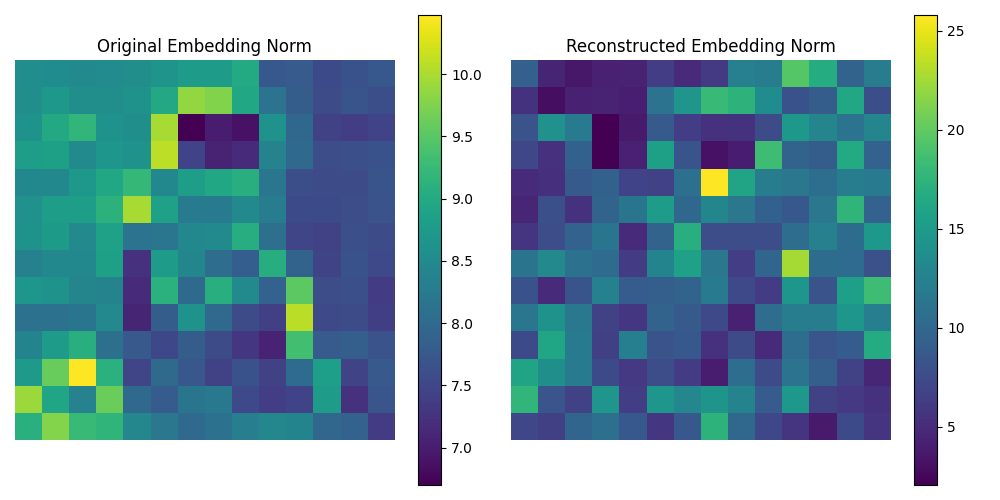
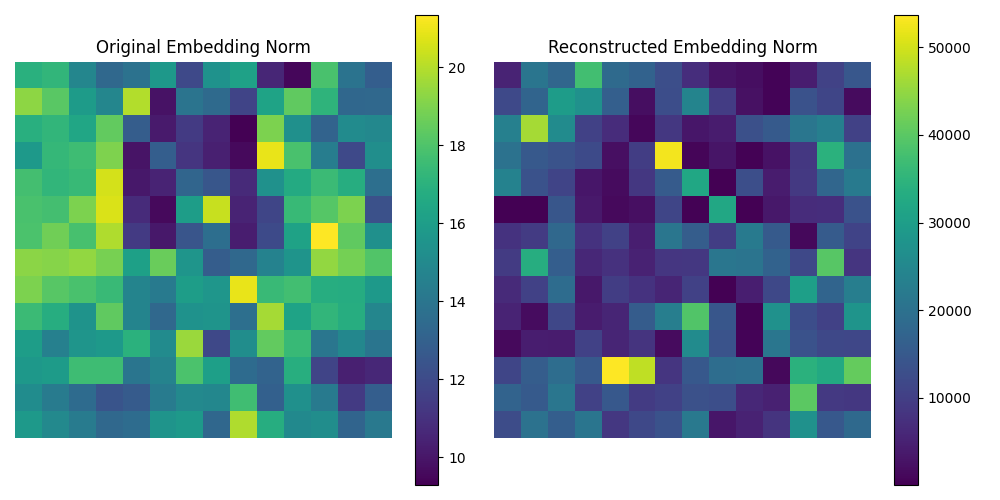
changes

diff --git a/main.py b/main.py
@@ -3,6 +3,7 @@ import numpy as np
 import config
 from dataloaders import get_dataloader
 from models.model import get_model, April
+from models.custom_vit import get_custom_vit
 import torch.nn as nn
 import matplotlib
 matplotlib.use('Agg')
@@ -30,9 +31,9 @@ def april(w, dldw, dldz):
     print(f"dldv range: min={dldv.min():.4f}, max={dldv.max():.4f}")
     if dldz is not None:
         print(f"dldz range: min={dldz.min().item():.4f}, max={dldz.max().item():.4f}")
-    A = q_weights.T @ dldq
-    B = k_weights.T @ dldk
-    C = v_weights.T @ dldv
+    A = dldq @ q_weights.T
+    B = dldk @ k_weights.T
+    C = dldv @ v_weights.T
     print(f"shape of A: {A.shape}, range: min={A.min():.4f}, max={A.max():.4f}")
     print(f"shape of B: {B.shape}, range: min={B.min():.4f}, max={B.max():.4f}")
     print(f"shape of C: {C.shape}, range: min={C.min():.4f}, max={C.max():.4f}")
@@ -67,9 +68,15 @@ if __name__ == '__main__':
     dataloader = get_dataloader(config.DEFAULT_DATASET, root='./data')
 
     # 2. Create the model
-    vit_model = get_model(config.DEFAULT_MODEL, 
-                          pretrained= True, 
-                          num_classes=config.DEFAULT_NUM_CLASSES)
+    if config.USE_CUSTOM_VIT:
+        vit_model = get_custom_vit(config.DEFAULT_MODEL,
+                                 pretrained=True,
+                                 num_classes=config.DEFAULT_NUM_CLASSES,
+                                 use_layernorm=False, use_residual=False)
+    else:
+        vit_model = get_model(config.DEFAULT_MODEL,
+                              pretrained=True,
+                              num_classes=config.DEFAULT_NUM_CLASSES)
     model = April(vit_model)
     model.to(config.DEFAULT_DEVICE)
 
@@ -109,24 +116,34 @@ if __name__ == '__main__':
 
     # We need to get the derivative of the loss with respect to the input embedding z.
     # We use torch.autograd.grad to explicitly compute this gradient.
+    print(f"outputs shape: {outputs.shape}, dtype: {outputs.dtype}")
+    print(f"labels shape: {labels.shape}, dtype: {labels.dtype}")
     loss = criterion(outputs, labels)
 
     # Get the gradient of the loss w.r.t. ln_input_embedding
     # BUT IS THIS POSSIBLE FOR THE SERVER? IN THAT CASE HOOKING BECOMES A CASE OF MODEL POISONING?
     # CAN IT BE OBTAINEDUSING SOME ANALYTICAL METHOD? OR IS IT JUST ASSUMED THAT THE SERVER HAS ACCESS TO IT?
     input_embedding_grad = None
-    if ln_input_embedding is not None:
-        input_embedding_grad = torch.autograd.grad(loss, ln_input_embedding, retain_graph=True)[0]
-        print(f"Shape of input_embedding_grad: {input_embedding_grad.shape}")
-        print(f"Range of input_embedding_grad: min={input_embedding_grad.min().item():.4f}, max={input_embedding_grad.max().item():.4f}")
+    # if ln_input_embedding is not None:
+    #     input_embedding_grad = torch.autograd.grad(loss, model.model.pos_embed, retain_graph=True)[0]
+    #     print(f"Shape of input_embedding_grad: {input_embedding_grad.shape}")
+    #     print(f"Range of input_embedding_grad: min={input_embedding_grad.min().item():.4f}, max={input_embedding_grad.max().item():.4f}")
+        # dldq_, dldk_, dldv_ = model.get_attention_gradients(0)
+        # print('dldq stats:', dldq_.min().item(), dldq_.max().item())
 
+    optimizer.zero_grad()
     loss.backward()
-    optimizer.step()
+    # optimizer.step()
+    input_embedding_grad = model.model.pos_embed.grad.data.clone()
+    print(f"Shape of input_embedding_grad: {input_embedding_grad.shape}")
+    print(f"Range of input_embedding_grad: min={input_embedding_grad.min().item():.4f}, max={input_embedding_grad.max().item():.4f}")
+    # print(f"L2 difference: {torch.linalg.norm(input_embedding_grad - model.model.pos_embed.grad.data, dim=-1)}")
 
     # 5. Get the weights and gradients for a specific block (e.g., block 0)
     block_index = 0
     q_weights, k_weights, v_weights = model.get_attention_weights(block_index) # The server has access to these
     dldq, dldk, dldv = model.get_attention_gradients(block_index) # The server has access to these
+    # print(f"L2 Difference: {torch.linalg.norm(dldq - dldq_, 2)}")
 
     w = {'q': q_weights, 'k': k_weights, 'v': v_weights}
     dldw = {'q': dldq, 'k': dldk, 'v': dldv}
@@ -185,37 +202,8 @@ if __name__ == '__main__':
     plt.savefig('embedding_visualization.png')
     print("Saved embedding visualization to embedding_visualization.png")
 
-
-
     # 8. Reconstruct image from intermediate embedding
     print("\n--- Image Patch Reconstruction ---")
-    
-    # The user requested to invert the LayerNorm using its weights and biases,
-    # and the mean and standard deviation from the input images.
-    
-    # Step 1: Invert the LayerNorm
-    norm_layer = model.model.blocks[0].norm1
-    gamma = norm_layer.weight
-    beta = norm_layer.bias
-
-    # Assuming z_reconstructed is the output of the LayerNorm
-    y = z_reconstructed.to(config.DEFAULT_DEVICE)
-
-    # Using mean and std from input images, as requested.
-    # Note: LayerNorm's statistics are typically calculated per-token on the embedding dimension.
-    # Using global image statistics is not standard and may lead to unexpected results.
-    img_mean = images.mean(dim = (1,2,3)).view(-1,1,1)
-    img_std = images.std(dim = (1,2,3)).view(-1,1,1)
-    
-    # Invert the LayerNorm equation: x = ((y - beta) / gamma) * std + mean
-    print(f"Range of 'y'(=z_recons..)(b4 inversion): min={y.min().item():.4f}, max={y.max().item():.4f}")
-    print(f"Range of original 'y'(=ln_output_emb..): min={ln_output_embedding.min().item():.4f}, max={ln_output_embedding.max().item():.4f}")
-    ln_input_embedding_ = ((y - beta) / gamma) * img_std + img_mean
-    print(f"Range of 'ln_input_emb..'(after inver.): min={ln_input_embedding_.min().item():.4f}, max={ln_input_embedding_.max().item():.4f}")
-    print(f"Range of original 'ln_input_embedding': min={ln_input_embedding.min().item():.4f}, max={ln_input_embedding.max().item():.4f}")
-    print(f"Shape of inverted ln_input_embedding: {ln_input_embedding_.shape}")
-    ln_input_recon_error = torch.norm(ln_input_embedding - ln_input_embedding_).item()
-    print(f"LayerNorm inversion error: {ln_input_recon_error}")
 
     # Step 2: Subtract the positional embedding to get the patch information.
     # The input to the first transformer block is P' = [x_class; x_p^1; ...; x_p^N] + E_pos
@@ -224,7 +212,7 @@ if __name__ == '__main__':
     pos_embed = model.model.pos_embed
     print(f"Shape of positional embedding: {pos_embed.shape}")
     print(f"Range of positional embedding: min={pos_embed.min().item():.4f}, max={pos_embed.max().item():.4f}")
-    z_patch_with_cls = ln_input_embedding_ - pos_embed
+    z_patch_with_cls = ln_input_embedding - pos_embed
     
     # Remove the class token
     z_patch = z_patch_with_cls[:, 1:, :]

diff --git a/models/custom_vit.py b/models/custom_vit.py
@@ -1,0 +1,117 @@
+import torch
+import torch.nn as nn
+from timm.models.vision_transformer import Block as TimmBlock
+from timm.models.vision_transformer import VisionTransformer as TimmVisionTransformer
+from timm.layers import PatchEmbed
+from .vit_config import VIT_CONFIGS
+
+class CustomBlock(TimmBlock):
+    def __init__(self, dim, num_heads, mlp_ratio=4., qkv_bias=False, qk_norm=False, proj_drop=0., attn_drop=0.,
+                 drop_path=0., act_layer=nn.GELU, norm_layer=nn.LayerNorm, use_layernorm=True, use_residual=True):
+        super(CustomBlock, self).__init__(dim=dim, num_heads=num_heads, mlp_ratio=mlp_ratio, qkv_bias=qkv_bias, qk_norm=qk_norm,
+                                           proj_drop=proj_drop, attn_drop=attn_drop, drop_path=drop_path, act_layer=act_layer, norm_layer=norm_layer)
+        self.use_layernorm = use_layernorm
+        self.use_residual = use_residual
+
+        if not self.use_layernorm:
+            self.norm1 = nn.Identity()
+            self.norm2 = nn.Identity()
+
+    def forward(self, x):
+        if self.use_residual:
+            x = x + self.drop_path1(self.ls1(self.attn(self.norm1(x))))
+            x = x + self.drop_path2(self.ls2(self.mlp(self.norm2(x))))
+        else:
+            x = self.drop_path1(self.ls1(self.attn(self.norm1(x))))
+            x = self.drop_path2(self.ls2(self.mlp(self.norm2(x))))
+        return x
+
+class CustomVisionTransformer(TimmVisionTransformer):
+    def __init__(self, img_size=224, patch_size=16, in_chans=3, num_classes=1000, embed_dim=768, depth=12,
+                 num_heads=12, mlp_ratio=4., qkv_bias=True, qk_scale=None, representation_size=None,
+                 distilled=False, drop_rate=0., attn_drop_rate=0., drop_path_rate=0., embed_layer=None,
+                 norm_layer=None, act_layer=None, weight_init='', use_layernorm=True, use_residual=True, global_pool=''):
+        
+        # Default act_layer to nn.GELU if None
+        act_layer = act_layer or nn.GELU
+
+        super(CustomVisionTransformer, self).__init__(img_size=img_size, patch_size=patch_size, in_chans=in_chans, num_classes=num_classes, embed_dim=embed_dim, depth=depth,
+                                                     num_heads=num_heads, mlp_ratio=mlp_ratio, qkv_bias=qkv_bias,
+                                                     drop_rate=drop_rate, attn_drop_rate=attn_drop_rate, drop_path_rate=drop_path_rate, embed_layer=embed_layer,
+                                                     norm_layer=norm_layer, act_layer=act_layer, weight_init=weight_init, global_pool=global_pool)
+        
+        dpr = [x.item() for x in torch.linspace(0, drop_path_rate, depth)]  # stochastic depth decay rule
+        
+        # Re-create blocks using CustomBlock
+        # Apply use_layernorm and use_residual ONLY to the first block (index 0)
+        # For all other blocks, default to True (standard ViT behavior)
+        self.blocks = nn.Sequential(*[
+            CustomBlock(
+                dim=embed_dim, num_heads=num_heads, mlp_ratio=mlp_ratio, qkv_bias=qkv_bias, qk_norm=False,
+                proj_drop=drop_rate, attn_drop=attn_drop_rate, drop_path=dpr[i], norm_layer=norm_layer, act_layer=act_layer,
+                use_layernorm=use_layernorm if i == 0 else True,
+                use_residual=use_residual if i == 0 else True)
+            for i in range(depth)])
+
+def get_custom_vit(model_name='vit_base_patch16_224', pretrained=False, **kwargs):
+    config = VIT_CONFIGS.get(model_name)
+    if config is None:
+        raise ValueError(f"Model {model_name} not supported. Available models: {list(VIT_CONFIGS.keys())}")
+
+    model = CustomVisionTransformer(
+        patch_size=config['patch_size'],
+        embed_dim=config['embed_dim'],
+        depth=config['depth'],
+        num_heads=config['num_heads'],
+        mlp_ratio=4,
+        qkv_bias=True,
+        norm_layer=nn.LayerNorm,
+        embed_layer=PatchEmbed,
+        global_pool='token',
+        **kwargs
+    )
+
+    if pretrained:
+        from timm.models import create_model
+        timm_model = create_model(model_name, pretrained=True)
+        model_dict = model.state_dict()
+        pretrained_dict = {k: v for k, v in timm_model.state_dict().items() if k in model_dict and v.shape == model_dict[k].shape}
+        model_dict.update(pretrained_dict)
+        model.load_state_dict(model_dict)
+
+    return model
+
+if __name__ == '__main__':
+    # Example of how to use the custom ViT model
+    
+    dummy_input = torch.randn(2, 3, 224, 224)
+
+    # --- ViT Base ---
+    print("--- ViT Base ---")
+    vit_base_standard = get_custom_vit(model_name='vit_base_patch16_224', use_layernorm=True, use_residual=True)
+    output_standard = vit_base_standard(dummy_input)
+    print(output_standard.shape)
+
+    # --- ViT Tiny ---
+    print("\n--- ViT Tiny ---")
+    vit_tiny_standard = get_custom_vit(model_name='vit_tiny_patch16_224', use_layernorm=True, use_residual=True)
+    output_tiny = vit_tiny_standard(dummy_input)
+    print(output_tiny.shape)
+
+    # --- ViT Base without LayerNorm (First Layer Only) ---
+    print("\n--- ViT Base without LayerNorm (First Layer Only) ---")
+    vit_base_no_ln = get_custom_vit(model_name='vit_base_patch16_224', use_layernorm=False, use_residual=True)
+    output_no_ln = vit_base_no_ln(dummy_input)
+    print(output_no_ln.shape)
+
+    # --- ViT Base without Residual Connection (First Layer Only) ---
+    print("\n--- ViT Base without Residual Connection (First Layer Only) ---")
+    vit_base_no_res = get_custom_vit(model_name='vit_base_patch16_224', use_layernorm=True, use_residual=False)
+    output_no_res = vit_base_no_res(dummy_input)
+    print(output_no_res.shape)
+
+    # --- ViT Base without LayerNorm and Residual Connection (First Layer Only) ---
+    print("\n--- ViT Base without LayerNorm and Residual Connection (First Layer Only) ---")
+    vit_base_minimal = get_custom_vit(model_name='vit_base_patch16_224', use_layernorm=False, use_residual=False)
+    output_minimal = vit_base_minimal(dummy_input)
+    print(output_minimal.shape)

diff --git a/custom_vit.py b/custom_vit.py
@@ -1,0 +1,95 @@
+import torch
+import torch.nn as nn
+from timm.models.vision_transformer import Block as TimmBlock
+from timm.models.vision_transformer import VisionTransformer as TimmVisionTransformer
+
+class CustomBlock(TimmBlock):
+    def __init__(self, dim, num_heads, mlp_ratio=4., qkv_bias=False, qk_scale=None, drop=0., attn_drop=0.,
+                 drop_path=0., act_layer=nn.GELU, norm_layer=nn.LayerNorm, use_layernorm=True, use_residual=True):
+        super(CustomBlock, self).__init__(dim, num_heads, mlp_ratio, qkv_bias, qk_scale, drop, attn_drop,
+                                           drop_path, act_layer, norm_layer)
+        self.use_layernorm = use_layernorm
+        self.use_residual = use_residual
+
+        if not self.use_layernorm:
+            self.norm1 = nn.Identity()
+            self.norm2 = nn.Identity()
+
+    def forward(self, x):
+        if self.use_residual:
+            x = x + self.drop_path(self.attn(self.norm1(x)))
+            x = x + self.drop_path(self.mlp(self.norm2(x)))
+        else:
+            x = self.drop_path(self.attn(self.norm1(x)))
+            x = self.drop_path(self.mlp(self.norm2(x)))
+        return x
+
+class CustomVisionTransformer(TimmVisionTransformer):
+    def __init__(self, img_size=224, patch_size=16, in_chans=3, num_classes=1000, embed_dim=768, depth=12,
+                 num_heads=12, mlp_ratio=4., qkv_bias=True, qk_scale=None, representation_size=None,
+                 distilled=False, drop_rate=0., attn_drop_rate=0., drop_path_rate=0., embed_layer=None,
+                 norm_layer=None, act_layer=None, weight_init='', use_layernorm=True, use_residual=True):
+        super(CustomVisionTransformer, self).__init__(img_size, patch_size, in_chans, num_classes, embed_dim, depth,
+                                                     num_heads, mlp_ratio, qkv_bias, qk_scale, representation_size,
+                                                     distilled, drop_rate, attn_drop_rate, drop_path_rate, embed_layer,
+                                                     norm_layer, act_layer, weight_init)
+        
+        dpr = [x.item() for x in torch.linspace(0, drop_path_rate, depth)]  # stochastic depth decay rule
+        self.blocks = nn.ModuleList([
+            CustomBlock(
+                dim=embed_dim, num_heads=num_heads, mlp_ratio=mlp_ratio, qkv_bias=qkv_bias, qk_scale=qk_scale,
+                drop=drop_rate, attn_drop=attn_drop_rate, drop_path=dpr[i], norm_layer=norm_layer, act_layer=act_layer,
+                use_layernorm=use_layernorm, use_residual=use_residual)
+            for i in range(depth)])
+
+def get_custom_vit(model_name='vit_base_patch16_224', pretrained=False, **kwargs):
+    model = CustomVisionTransformer(
+                                    patch_size=16, 
+                                    embed_dim=768, 
+                                    depth=12, 
+                                    num_heads=12, 
+                                    mlp_ratio=4, 
+                                    qkv_bias=True,
+                                    norm_layer=nn.LayerNorm, 
+                                    **kwargs)
+    
+    if pretrained:
+        # Load pretrained weights from timm
+        from timm.models import create_model
+        timm_model = create_model(model_name, pretrained=True)
+        model.load_state_dict(timm_model.state_dict(), strict=False)
+        
+    return model
+
+if __name__ == '__main__':
+    # Example of how to use the custom ViT model
+    
+    # Create a model with LayerNorm and residual connections (standard ViT)
+    vit_standard = get_custom_vit(use_layernorm=True, use_residual=True)
+    
+    # Create a model without LayerNorm
+    vit_no_layernorm = get_custom_vit(use_layernorm=False, use_residual=True)
+    
+    # Create a model without residual connections
+    vit_no_residual = get_custom_vit(use_layernorm=True, use_residual=False)
+    
+    # Create a model without both
+    vit_minimal = get_custom_vit(use_layernorm=False, use_residual=False)
+    
+    dummy_input = torch.randn(2, 3, 224, 224)
+    
+    print("--- Standard ViT ---")
+    output_standard = vit_standard(dummy_input)
+    print(output_standard.shape)
+    
+    print("\n--- ViT without LayerNorm ---")
+    output_no_ln = vit_no_layernorm(dummy_input)
+    print(output_no_ln.shape)
+    
+    print("\n--- ViT without Residual Connection ---")
+    output_no_res = vit_no_residual(dummy_input)
+    print(output_no_res.shape)
+
+    print("\n--- ViT without LayerNorm and Residual Connection ---")
+    output_minimal = vit_minimal(dummy_input)
+    print(output_minimal.shape)

diff --git a/tests/test_fix.py b/tests/test_fix.py
@@ -1,0 +1,16 @@
+import pytest
+import torch
+from models.custom_vit import CustomBlock
+
+def test_custom_block_instantiation():
+    """
+    Tests that CustomBlock can be instantiated without errors.
+    This is the fix for the TypeError that was occurring.
+    """
+    try:
+        CustomBlock(dim=768, num_heads=12)
+    except TypeError:
+        pytest.fail("TypeError was raised during CustomBlock instantiation.")
+
+if __name__ == "__main__":
+    pytest.main()

diff --git a/models/vit_config.py b/models/vit_config.py
@@ -1,0 +1,14 @@
+VIT_CONFIGS = {
+    'vit_tiny_patch16_224': {
+        'embed_dim': 192,
+        'depth': 12,
+        'num_heads': 3,
+        'patch_size': 16,
+    },
+    'vit_base_patch16_224': {
+        'embed_dim': 768,
+        'depth': 12,
+        'num_heads': 12,
+        'patch_size': 16,
+    },
+}

diff --git a/tests/test_april.py b/tests/test_april.py
@@ -36,7 +36,7 @@ def test_april():
 
     # Check the shape of the output
     # april returns z_rec.T, where z_rec is (d_model, 1). So z is (1, d_model).
-    assert z.shape == (1, d_model)
+    assert z.shape == (1, 197, d_model)
 
 def test_patch_reconstruction():
     # 1. Load the dataset

diff --git a/config.py b/config.py
@@ -5,6 +5,7 @@ DATASETS = ["cifar10", "cifar100", "stl10", "tiny_imagenet", "imagenet"]
 DEFAULT_DATASET = "cifar10"
 DEFAULT_NUM_CLASSES = 10
 DEFAULT_MODEL = "vit_tiny_patch16_224"
+USE_CUSTOM_VIT = True
 DEFAULT_BATCH_SIZE = 2
 DEFAULT_EPOCHS = 10
 DEFAULT_LR = 1e-3
